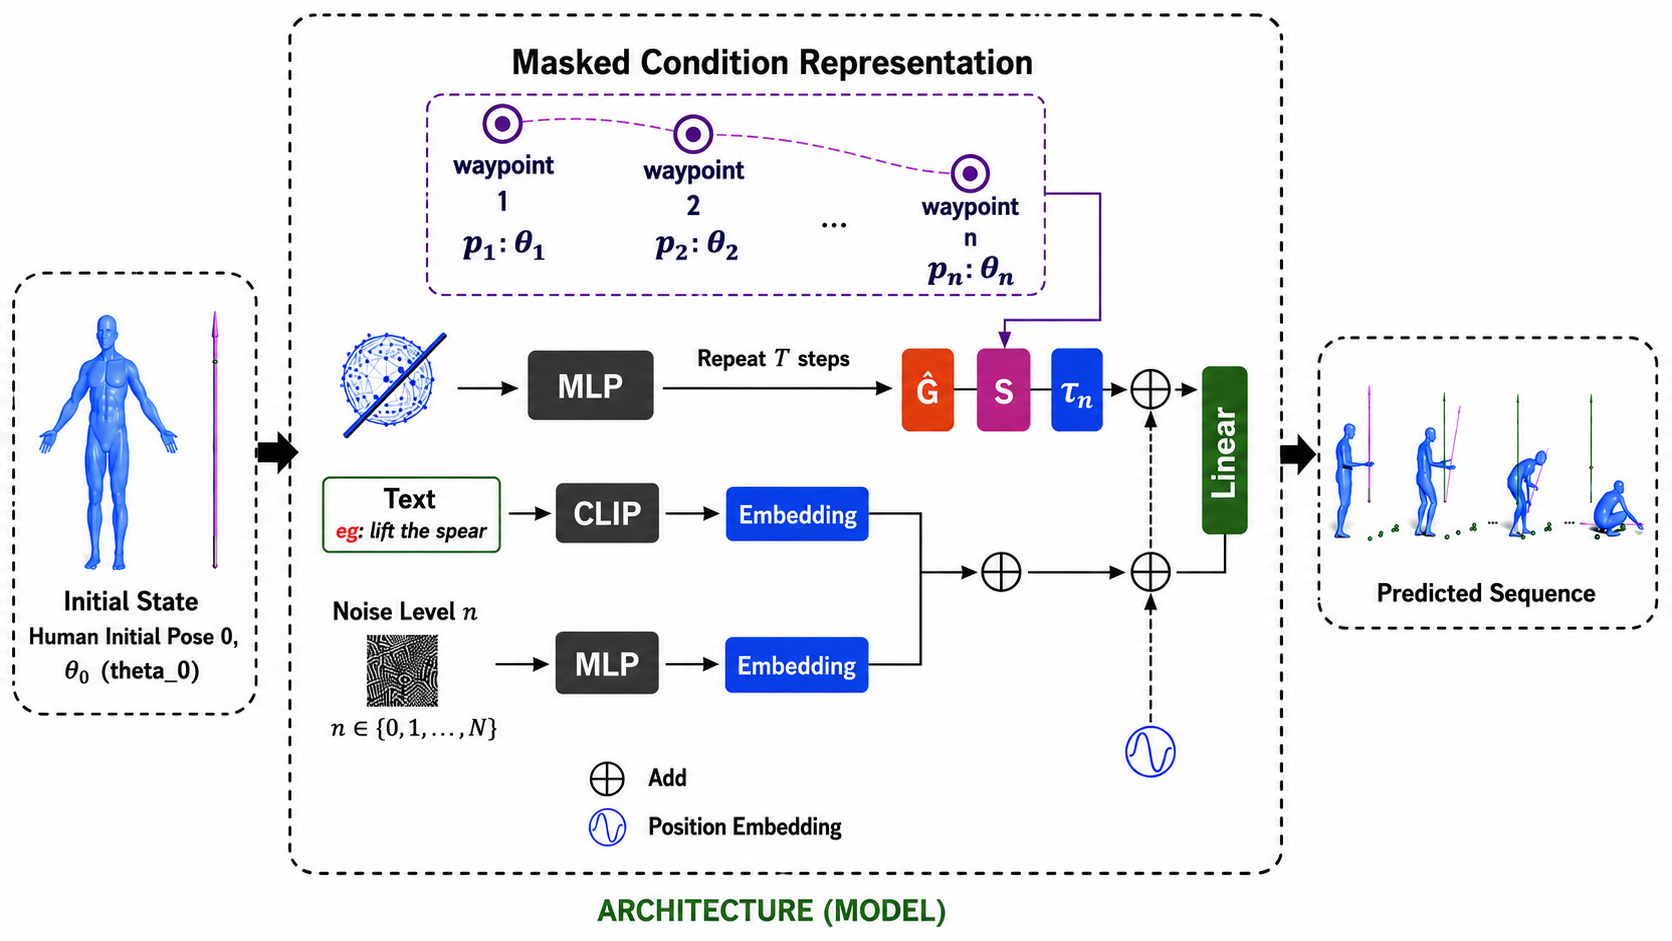
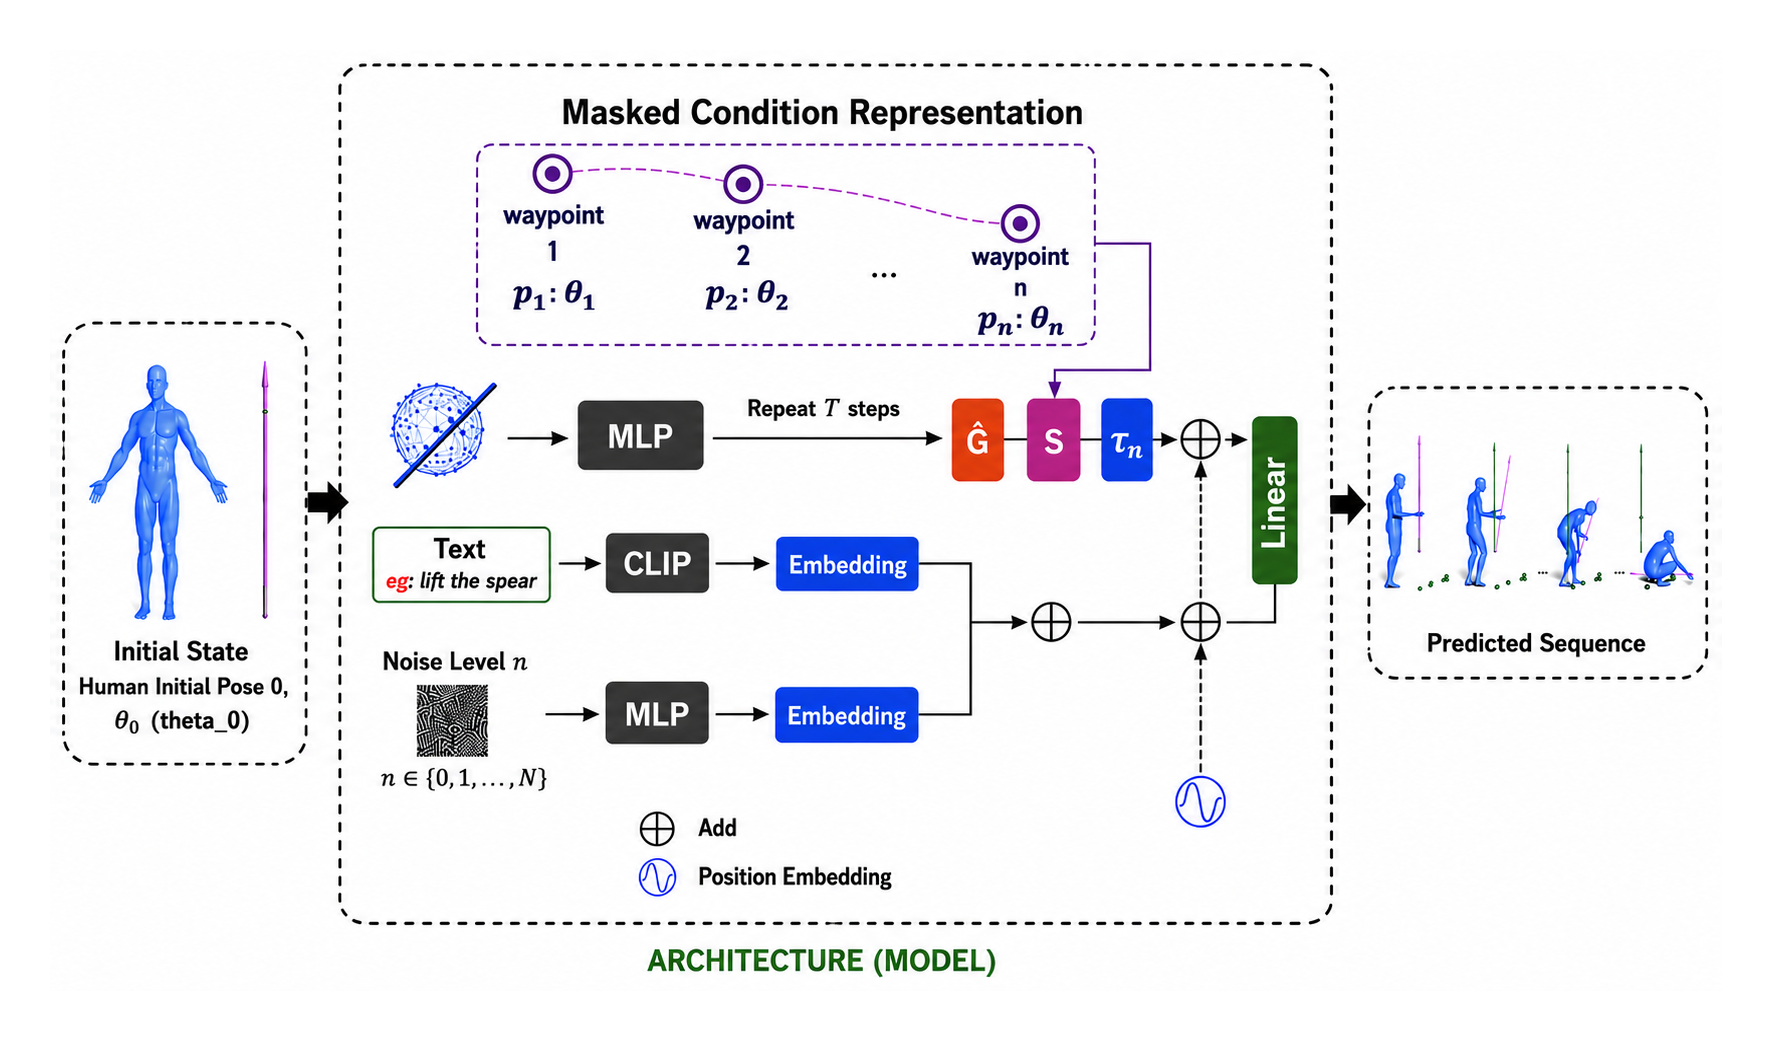
Pad HOI architecture image with white margin to prevent border clipping and set card image containers background to white

diff --git a/styles.css b/styles.css
@@ -233,7 +233,7 @@ input:checked + label + .background {
   overflow: hidden;
   border-radius: 12px;
   border: 1px solid #eee;
-  background-color: #fafafa;
+  background-color: #ffffff;
   transition: all 0.3s cubic-bezier(0.165, 0.84, 0.44, 1);
 }
 
